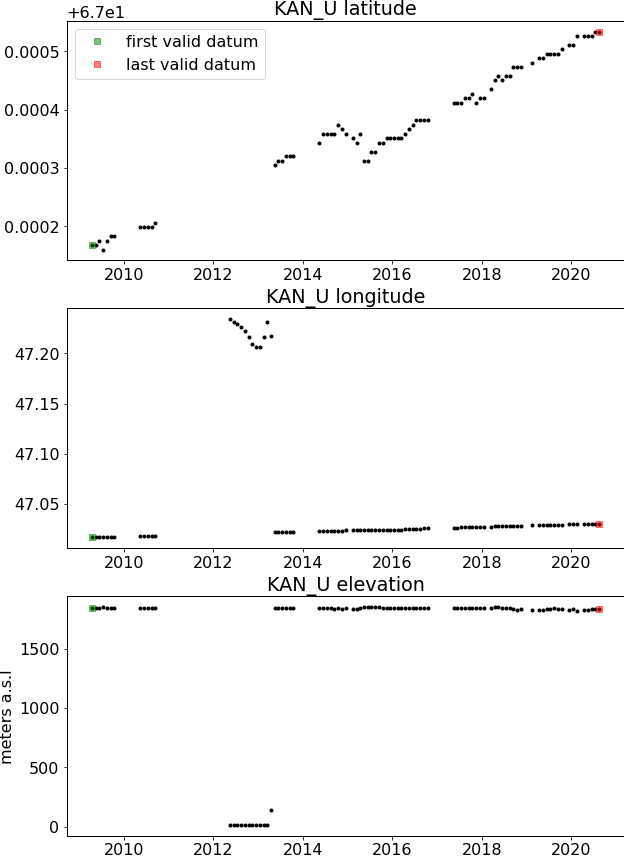
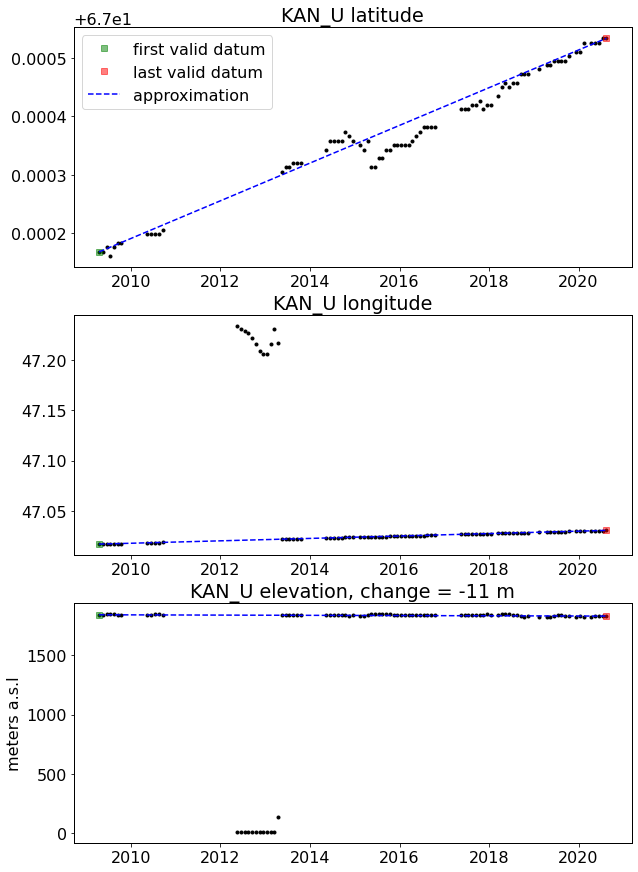
latest

diff --git a/PROMICE_positions_distance_stats.py b/PROMICE_positions_distance_stats.py
@@ -13,9 +13,7 @@ import os
 import matplotlib.pyplot as plt
 import pandas as pd
 import numpy as np
-import datetime
 import geopy.distance
-
 
 th=1 ; th=2
 formatx='{x:,.3f}'; fs=24 ; fs=16
@@ -130,19 +128,24 @@ for st,stnam in enumerate(meta.name):
     
             cc+=1
             ax[cc].plot(df['date'],elev,'.',color='k')
-            ax[cc].set_title(stnam+' elevation')
             ax[cc].set_ylabel('meters a.s.l')
         
         v=np.where(~np.isnan(df['lat']))
         v=v[0]
         n=len(v)
         print(v[0],df['date'][v[0]])
+        x=[df['date'][v[0]],df['date'][v[n-1]]]
+
+
+
 
         cc=0        
         stats[0,st]=lat[v[0]] 
         ax[cc].plot(df['date'][v[0]],stats[0,st],'s',color='g',alpha=0.5,label='first valid datum')        
         stats[1,st]=lat[v[n-1]]
         ax[cc].plot(df['date'][v[n-1]],stats[1,st],'s',color='r',alpha=0.5,label='last valid datum')
+        y=[stats[0,st],stats[1,st]]
+        ax[cc].plot(x, y, '--',c='b',label='approximation')
         ax[cc].legend()
 
         cc+=1
@@ -152,12 +155,22 @@ for st,stnam in enumerate(meta.name):
         stats[3,st]=lon[v[n-1]]
         ax[cc].plot(df['date'][v[n-1]],stats[3,st],'s',color='r',alpha=0.5)
 
+        y=[stats[2,st],stats[3,st]]
+        ax[cc].plot(x, y, '--',c='b')
+
         cc+=1
 
         stats[4,st]=elev[v[0]] 
         ax[cc].plot(df['date'][v[0]],stats[4,st],'s',color='g',alpha=0.5)        
         stats[5,st]=elev[v[n-1]]
         ax[cc].plot(df['date'][v[n-1]],stats[5,st],'s',color='r',alpha=0.5)
+        
+        de=stats[5,st]-stats[4,st]
+
+        ax[2].set_title(stnam+' elevation, change = '+str('%.0f'%de)+' m')
+
+        y=[stats[4,st],stats[5,st]]
+        ax[cc].plot(x, y, '--',c='b')
         
         coords_1 = (stats[0,st],stats[2,st])
         coords_2 = (stats[1,st],stats[3,st])
@@ -170,8 +183,10 @@ for st,stnam in enumerate(meta.name):
         duration = df['date'][v[n-1]] - df['date'][v[0]]                         # For build-in functions
         duration_in_s = duration.total_seconds()
         years[st] = divmod(duration_in_s, 86400)[0]/365.25
+        print(years[st])
 
-        if ly=='p': plt.savefig('./figs/'+stnam+'.png', dpi=72,bbox_inches = 'tight',pad_inches = 0)
+
+        if ly=='p': plt.savefig('./figs/'+stnam+'.png', dpi=72,bbox_inches = 'tight')
         if ly=='x':plt.show()
 
 
